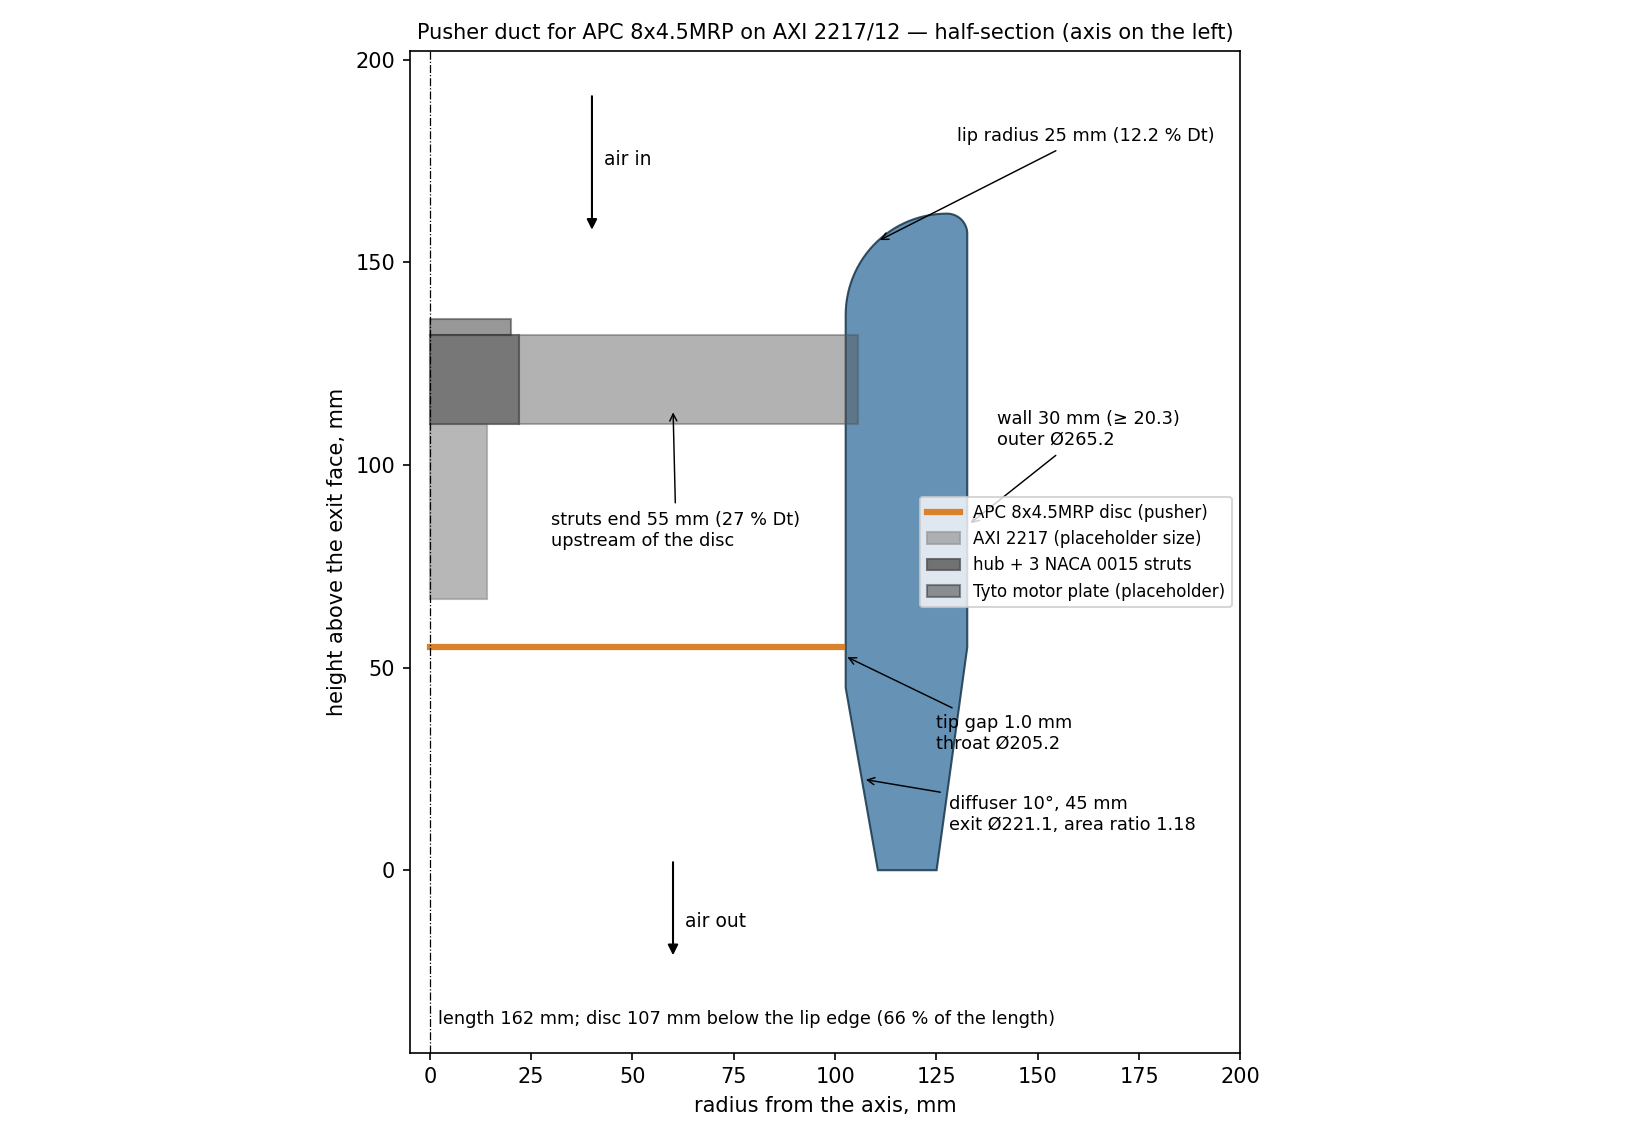
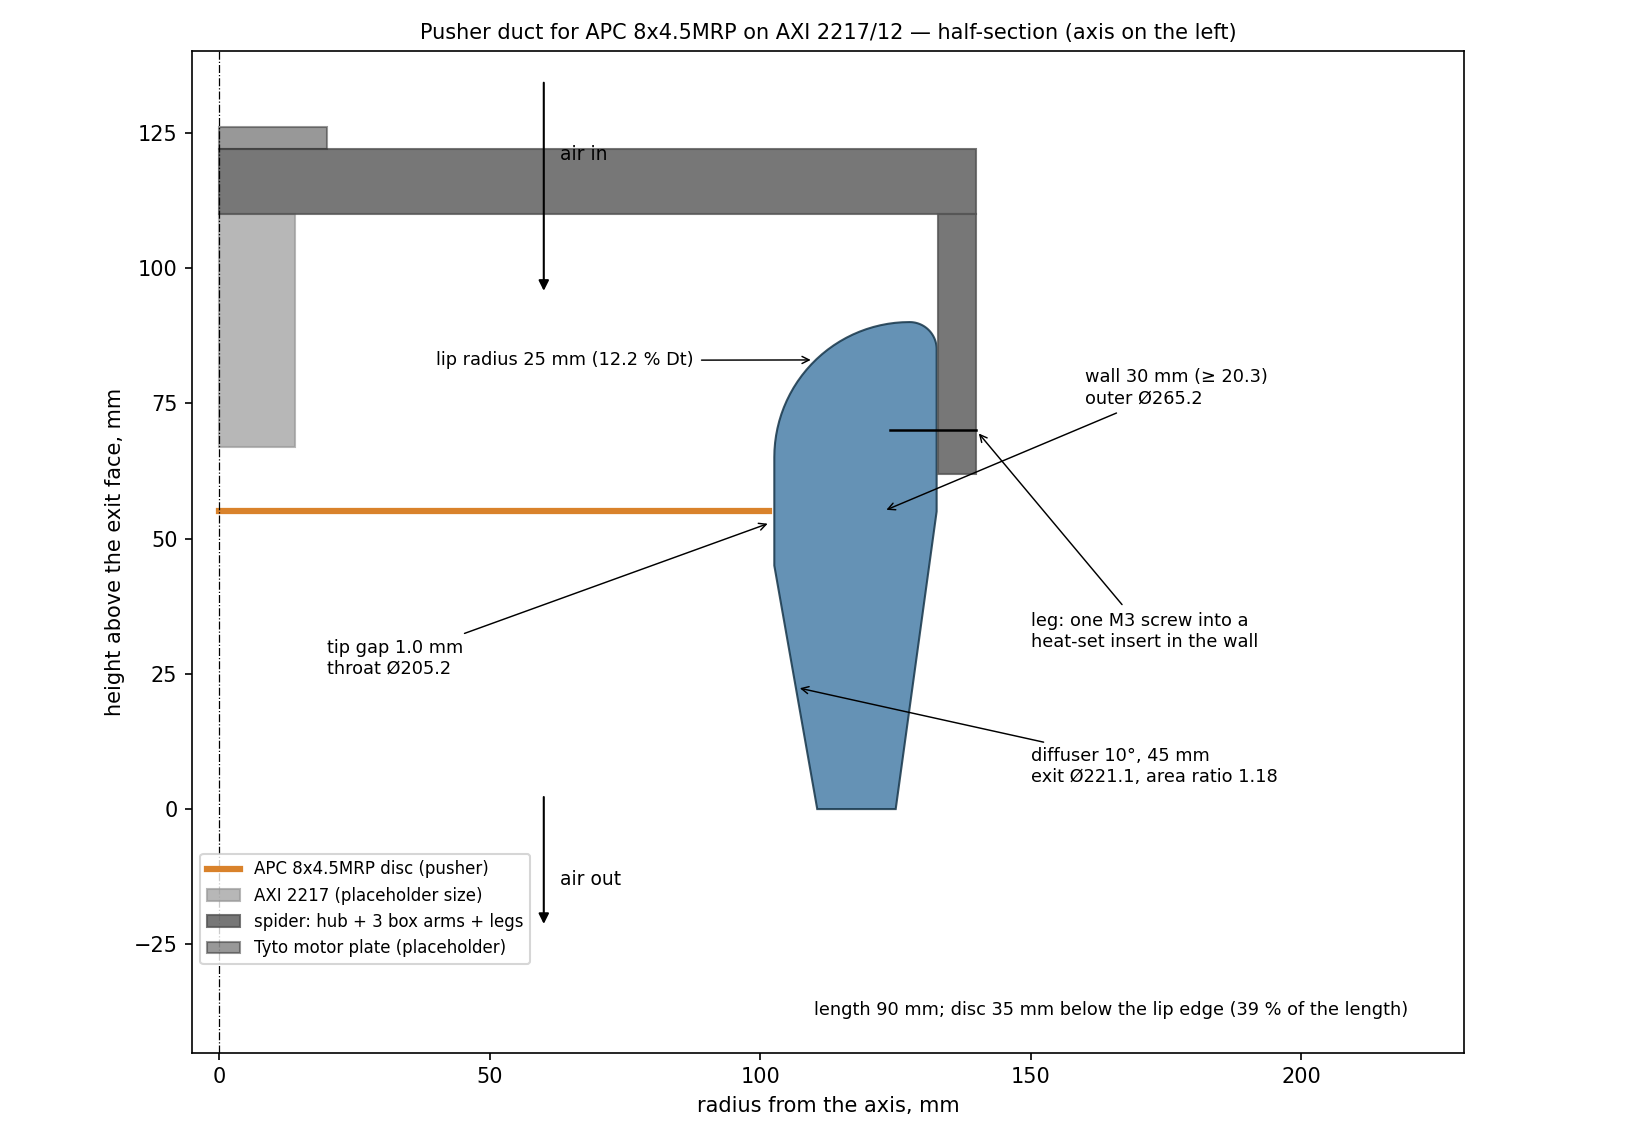
Duct: back to the first shape, motor moved upstream, plain box spider over the inlet
Adam preferred the first duct (90 mm, disc 35 mm below the lip) with only
the motor placement swapped. The spider now sits 20 mm above the lip and
its legs screw into the outer wall, so the inside stays smooth and the
outlet is clear; the struts no longer need an aerofoil section.

diff --git a/hardware/duct-8in-axi2217/viewer.html b/hardware/duct-8in-axi2217/viewer.html
@@ -23,22 +23,21 @@
   <div class="dim" id="dims"></div>
   <label><input type="checkbox" id="cut" checked> cut away a quarter</label>
   <label><input type="checkbox" id="prop" checked> propeller disc</label>
-  <label><input type="checkbox" id="spider" checked> hub, struts, motor, stand plate (motor and plate: placeholder size)</label>
-  <div class="hint">Drag to rotate · scroll to zoom · right-drag to pan. Air enters at the top, past the stand, hub and struts, then the propeller.<br>Same parameters as duct.scad; motor sizes are not yet measured.</div>
+  <label><input type="checkbox" id="spider" checked> spider, motor, stand plate (motor and plate: placeholder size)</label>
+  <div class="hint">Drag to rotate · scroll to zoom · right-drag to pan. Air enters at the top, past the stand plate, spider and motor, then the propeller.<br>Same parameters as duct.scad; motor sizes are not yet measured.</div>
 </div>
 <script src="https://cdnjs.cloudflare.com/ajax/libs/three.js/r128/three.min.js"></script>
 <script src="https://cdn.jsdelivr.net/npm/three@0.128.0/examples/js/controls/OrbitControls.js"></script>
 <script>
-const P = { prop_d: 203.2, tip_gap: 1.0, blade_below: 10, lip_r: 25, lip_out_r: 5, wall: 30, prop_to_mount: 55,
-            diff_angle: 10, diff_len: 45, hub_r: 22, struts_n: 3, strut_chord: 22, strut_tc: 0.15, root_w: 8, pocket: 3,
-            strut_angle0: 45 };
+const P = { prop_d: 203.2, tip_gap: 1.0, throat_len: 20, lip_r: 25, lip_out_r: 5, wall: 30, prop_to_mount: 55,
+            diff_angle: 10, diff_len: 45, hub_r: 22, arms_n: 3, arm_w: 8, arm_t: 12, leg_t: 7, leg_bolt_z: 70, arm_angle0: 45 };
 const rad = d => d * Math.PI / 180;
 const throat_r = P.prop_d / 2 + P.tip_gap;
 const diff_len = P.diff_len;
 const exit_r = throat_r + diff_len * Math.tan(rad(P.diff_angle));
-const outer_exit_r = exit_r + 14.5;
-const z_prop = diff_len + P.blade_below, z_hub0 = z_prop + P.prop_to_mount, z_strut = z_hub0 + P.strut_chord / 2;
-const z_lip0 = z_strut + P.strut_chord / 2 + 5, z_top = z_lip0 + P.lip_r;
+const outer_exit_r = exit_r + 14.5, outer_r = throat_r + P.wall;
+const z_prop = diff_len + P.throat_len / 2, z_lip0 = diff_len + P.throat_len, z_top = z_lip0 + P.lip_r;
+const z_mount = z_prop + P.prop_to_mount, leg_r0 = outer_r + 0.3;
 const hl = throat_r + P.lip_r;
 const arc = (cx, cz, r, a0, a1, n = 30) => Array.from({ length: n + 1 }, (_, i) => {
   const a = rad(a0 + (a1 - a0) * i / n); return [cx + r * Math.cos(a), cz + r * Math.sin(a)]; });
@@ -52,7 +51,7 @@ document.getElementById("dims").textContent =
   `disc below lip ${(z_top - z_prop).toFixed(0)} mm    (${(100 * (z_top - z_prop) / z_top).toFixed(0)} % of length)\n` +
   `diffuser       ${P.diff_angle}°, ${diff_len} mm, exit Ø${(2 * exit_r).toFixed(1)}\n` +
   `exit/disc area ${((exit_r / (P.prop_d / 2)) ** 2).toFixed(2)}\n` +
-  `struts end     ${(z_strut - P.strut_chord / 2 - z_prop).toFixed(0)} mm upstream of the disc\n` +
+  `motor face     ${(z_mount - z_top).toFixed(0)} mm above the lip\n` +
   `length         ${z_top} mm`;
 
 const canvas = document.getElementById("c");
@@ -97,32 +96,27 @@ const grey = new THREE.MeshStandardMaterial({ color: 0x555555, roughness: 0.7, s
 const motorLen = P.prop_to_mount - 12;
 const motor = new THREE.Mesh(new THREE.CylinderGeometry(14, 14, motorLen, 48), new THREE.MeshStandardMaterial({ color: 0x9aa0a4 }));
 motor.position.y = z_prop + 12 + motorLen / 2; mount.add(motor);
-const hub = new THREE.Mesh(new THREE.CylinderGeometry(P.hub_r, P.hub_r, P.strut_chord, 48), grey);
-hub.position.y = z_hub0 + P.strut_chord / 2; mount.add(hub);
+const hub = new THREE.Mesh(new THREE.CylinderGeometry(P.hub_r, P.hub_r, P.arm_t, 48), grey);
+hub.position.y = z_mount + P.arm_t / 2; mount.add(hub);
 const plate = new THREE.Mesh(new THREE.BoxGeometry(40, 4, 40), new THREE.MeshStandardMaterial({ color: 0x333333, transparent: true, opacity: 0.7 }));
-plate.position.y = z_hub0 + P.strut_chord + 2; mount.add(plate);
-function nacaShape(c, t, n = 30) {
-  const up = Array.from({ length: n + 1 }, (_, i) => { const x = (1 - Math.cos(Math.PI * i / n)) / 2;
-    return [x * c, 5 * t * c * (0.2969 * Math.sqrt(x) - 0.1260 * x - 0.3516 * x * x + 0.2843 * x ** 3 - 0.1036 * x ** 4)]; });
-  const pts = [...up, ...up.slice(1, -1).reverse().map(([x, y]) => [x, -y])];
-  return new THREE.Shape(pts.map(([x, y]) => new THREE.Vector2(x, y)));
-}
-const strutLen = throat_r + P.pocket - 0.3 - (P.hub_r - 3);
-const strutGeo = new THREE.ExtrudeGeometry(nacaShape(P.strut_chord, P.strut_tc), { depth: strutLen, bevelEnabled: false });
-for (let i = 0; i < P.struts_n; i++) {
-  const a = rad(P.strut_angle0 + i * 360 / P.struts_n);
+plate.position.y = z_mount + P.arm_t + 2; mount.add(plate);
+const legLen = z_mount + P.arm_t - (P.leg_bolt_z - 8);
+for (let i = 0; i < P.arms_n; i++) {
+  const a = rad(P.arm_angle0 + i * 360 / P.arms_n);
   const g = new THREE.Group();
-  const m = new THREE.Mesh(strutGeo, grey);
-  m.rotation.z = -Math.PI / 2;          // chord runs downward from the leading edge at the top
-  m.position.z = P.hub_r - 3;           // start inside the hub, extrude radially outward
-  g.add(m);
-  g.rotation.y = a + Math.PI / 2;
-  g.position.y = z_strut + P.strut_chord / 2;
+  const armLen = leg_r0 + P.leg_t;
+  const arm = new THREE.Mesh(new THREE.BoxGeometry(armLen, P.arm_t, P.arm_w), grey);
+  arm.position.set(armLen / 2, z_mount + P.arm_t / 2, 0); g.add(arm);
+  const leg = new THREE.Mesh(new THREE.BoxGeometry(P.leg_t, legLen, P.arm_w), grey);
+  leg.position.set(leg_r0 + P.leg_t / 2, P.leg_bolt_z - 8 + legLen / 2, 0); g.add(leg);
+  const screw = new THREE.Mesh(new THREE.CylinderGeometry(1.6, 1.6, P.leg_t + 10, 16), new THREE.MeshStandardMaterial({ color: 0xc0a040 }));
+  screw.rotation.z = Math.PI / 2; screw.position.set(leg_r0 + P.leg_t / 2 - 5, P.leg_bolt_z, 0); g.add(screw);
+  g.rotation.y = a;
   mount.add(g);
 }
 scene.add(mount);
 
-scene.add(new THREE.ArrowHelper(new THREE.Vector3(0, -1, 0), new THREE.Vector3(0, z_top + 90, 0), 60, 0x333333, 14, 8));
+scene.add(new THREE.ArrowHelper(new THREE.Vector3(0, -1, 0), new THREE.Vector3(70, z_mount + 70, 0), 60, 0x333333, 14, 8));
 scene.add(new THREE.ArrowHelper(new THREE.Vector3(0, -1, 0), new THREE.Vector3(0, -10, 0), 60, 0x333333, 14, 8));
 
 document.getElementById("cut").onchange = e => buildDuct(e.target.checked);

diff --git a/hardware/duct-8in-axi2217/render.py b/hardware/duct-8in-axi2217/render.py
@@ -1,4 +1,4 @@
-"""Previews for the pusher duct: a dimensioned half-section and a 3D view of the exported STLs.
+"""Previews for the pusher duct (motor upstream, spider over the inlet): a dimensioned half-section and a 3D view of the exported STLs.
 
 OpenSCAD's PNG export needs a display; this draws from the same numbers instead.
 Keep the parameters below in step with duct.scad.
@@ -14,19 +14,19 @@ import matplotlib.pyplot as plt
 import numpy as np
 from mpl_toolkits.mplot3d.art3d import Poly3DCollection
 
-prop_d, tip_gap, blade_below = 203.2, 1.0, 10
+prop_d, tip_gap, throat_len = 203.2, 1.0, 20
 lip_r, lip_out_r, wall = 25, 5, 30
 prop_to_mount, diff_angle, diff_len = 55, 10, 45
-hub_r, strut_chord, pocket = 22, 22, 3
+hub_r, arm_t, leg_t, leg_bolt_z = 22, 12, 7, 70
 throat_r = prop_d / 2 + tip_gap
 exit_r = throat_r + diff_len * math.tan(math.radians(diff_angle))
 outer_exit_r = exit_r + 14.5
 outer_r = throat_r + wall
-z_prop = diff_len + blade_below
-z_hub0 = z_prop + prop_to_mount
-z_strut = z_hub0 + strut_chord / 2
-z_lip0 = z_strut + strut_chord / 2 + 5
+z_prop = diff_len + throat_len / 2
+z_lip0 = diff_len + throat_len
 z_top = z_lip0 + lip_r
+z_mount = z_prop + prop_to_mount
+leg_r0 = outer_r + 0.3
 hl = throat_r + lip_r
 
 
@@ -44,32 +44,32 @@ def section(path):
     ax.fill(r, z, color="#4a7fa8", alpha=.85, lw=1, ec="#17364a")
     ax.plot([0, prop_d / 2], [z_prop, z_prop], color="#d9822b", lw=3, label="APC 8x4.5MRP disc (pusher)")
     ax.add_patch(plt.Rectangle((0, z_prop + 12), 14, prop_to_mount - 12, color="#999", alpha=.7, label="AXI 2217 (placeholder size)"))
-    ax.add_patch(plt.Rectangle((0, z_hub0), hub_r, strut_chord, color="#555", alpha=.8, label="hub + 3 NACA 0015 struts"))
-    ax.add_patch(plt.Rectangle((hub_r, z_strut - strut_chord / 2), throat_r + pocket - hub_r, strut_chord, color="#555", alpha=.45))
-    ax.add_patch(plt.Rectangle((0, z_hub0 + strut_chord), 20, 4, color="#333", alpha=.5, label="Tyto motor plate (placeholder)"))
-    ax.annotate("", xy=(40, z_top - 5), xytext=(40, z_top + 30), arrowprops=dict(arrowstyle="-|>", color="k"))
-    ax.text(43, z_top + 12, "air in", fontsize=9)
+    ax.add_patch(plt.Rectangle((0, z_mount), leg_r0 + leg_t, arm_t, color="#555", alpha=.8, label="spider: hub + 3 box arms + legs"))
+    ax.add_patch(plt.Rectangle((leg_r0, leg_bolt_z - 8), leg_t, z_mount - (leg_bolt_z - 8), color="#555", alpha=.8))
+    ax.plot([leg_r0 - 9, leg_r0 + leg_t], [leg_bolt_z, leg_bolt_z], color="k", lw=1.2)
+    ax.add_patch(plt.Rectangle((0, z_mount + arm_t), 20, 4, color="#333", alpha=.5, label="Tyto motor plate (placeholder)"))
+    ax.annotate("", xy=(60, z_top + 5), xytext=(60, z_top + 45), arrowprops=dict(arrowstyle="-|>", color="k"))
+    ax.text(63, z_top + 30, "air in", fontsize=9)
     ax.annotate("", xy=(60, -22), xytext=(60, 3), arrowprops=dict(arrowstyle="-|>", color="k"))
     ax.text(63, -14, "air out", fontsize=9)
     ax.axvline(0, color="k", lw=.6, ls="-.")
-    gap = z_strut - strut_chord / 2 - z_prop
     notes = [
-        ((throat_r - 0.5, z_prop - 2), f"tip gap {tip_gap:.1f} mm\nthroat Ø{2 * throat_r:.1f}", (125, z_prop - 25)),
-        ((hl - lip_r * .7, z_lip0 + lip_r * .72), f"lip radius {lip_r} mm ({100 * lip_r / (2 * throat_r):.1f} % Dt)", (130, z_top + 18)),
-        ((outer_r, z_prop + 30), f"wall {wall} mm (≥ 20.3)\nouter Ø{2 * outer_r:.1f}", (140, z_prop + 50)),
-        (((exit_r + throat_r) / 2, diff_len / 2), f"diffuser {diff_angle}°, {diff_len} mm\nexit Ø{2 * exit_r:.1f}, area ratio {(exit_r / (prop_d / 2)) ** 2:.2f}", (128, 10)),
-        ((60, z_hub0 + 4), f"struts end {gap:.0f} mm ({100 * gap / (2 * throat_r):.0f} % Dt)\nupstream of the disc", (30, z_hub0 - 30)),
+        ((throat_r - 0.5, z_prop - 2), f"tip gap {tip_gap:.1f} mm\nthroat Ø{2 * throat_r:.1f}", (20, z_prop - 30)),
+        ((hl - lip_r * .7, z_lip0 + lip_r * .72), f"lip radius {lip_r} mm ({100 * lip_r / (2 * throat_r):.1f} % Dt)", (40, z_top - 8)),
+        ((outer_r - 10, z_prop), f"wall {wall} mm (≥ 20.3)\nouter Ø{2 * outer_r:.1f}", (160, z_prop + 20)),
+        (((exit_r + throat_r) / 2, diff_len / 2), f"diffuser {diff_angle}°, {diff_len} mm\nexit Ø{2 * exit_r:.1f}, area ratio {(exit_r / (prop_d / 2)) ** 2:.2f}", (150, 5)),
+        ((leg_r0 + leg_t, leg_bolt_z), "leg: one M3 screw into a\nheat-set insert in the wall", (150, leg_bolt_z - 40)),
     ]
     for xy, txt, xt in notes:
         ax.annotate(txt, xy=xy, xytext=xt, fontsize=8.5, arrowprops=dict(arrowstyle="->", lw=.7))
-    ax.text(2, -38, f"length {z_top:.0f} mm; disc {z_top - z_prop:.0f} mm below the lip edge ({100 * (z_top - z_prop) / z_top:.0f} % of the length)", fontsize=8.5)
+    ax.text(110, -38, f"length {z_top:.0f} mm; disc {z_top - z_prop:.0f} mm below the lip edge ({100 * (z_top - z_prop) / z_top:.0f} % of the length)", fontsize=8.5)
     ax.set_aspect("equal")
-    ax.set_xlim(-5, 200)
-    ax.set_ylim(-45, z_top + 40)
+    ax.set_xlim(-5, 230)
+    ax.set_ylim(-45, z_mount + 30)
     ax.set_xlabel("radius from the axis, mm")
     ax.set_ylabel("height above the exit face, mm")
     ax.set_title("Pusher duct for APC 8x4.5MRP on AXI 2217/12 — half-section (axis on the left)", fontsize=10)
-    ax.legend(loc="center right", fontsize=8)
+    ax.legend(loc="lower left", bbox_to_anchor=(0.0, 0.08), fontsize=8)
     fig.tight_layout()
     fig.savefig(path, dpi=150)
 
@@ -88,9 +88,11 @@ def view3d(path, parts):
     fig = plt.figure(figsize=(9, 8.5))
     ax = fig.add_subplot(projection="3d")
     light = np.array([0.4, -0.5, 0.75]); light /= np.linalg.norm(light)
-    for f, col, cut, dz in parts:
+    for f, col, cut, flip_at in parts:
         t = read_stl(f)
-        t[:, :, 2] += dz
+        if flip_at is not None:                           # spider.stl is exported upside down for printing
+            t[:, :, 2] = flip_at - t[:, :, 2]
+            t[:, :, 1] = -t[:, :, 1]
         if cut:
             t = t[(t[:, :, 1] >= -1).all(axis=1)]         # cut away the half nearest the camera to show the inside
         nrm = np.cross(t[:, 1] - t[:, 0], t[:, 2] - t[:, 0])
@@ -98,16 +100,16 @@ def view3d(path, parts):
         shade = 0.35 + 0.65 * np.clip(nrm @ light, 0, 1)
         base = np.array(matplotlib.colors.to_rgb(col))
         ax.add_collection3d(Poly3DCollection(t, facecolors=np.clip(base[None] * shade[:, None], 0, 1), edgecolors="none"))
-    ax.set_xlim(-140, 140); ax.set_ylim(-140, 140); ax.set_zlim(-10, 180)
-    ax.set_box_aspect((280, 280, 190))
+    ax.set_xlim(-140, 140); ax.set_ylim(-140, 140); ax.set_zlim(-10, 140)
+    ax.set_box_aspect((280, 280, 150))
     ax.view_init(elev=24, azim=-60)
     ax.set_axis_off()
-    ax.set_title("Pusher duct (half cut away) with hub and struts; air enters at the top", fontsize=10)
+    ax.set_title("Pusher duct (half cut away) with the motor spider; air enters at the top", fontsize=10)
     fig.tight_layout()
     fig.savefig(path, dpi=130)
 
 
 if __name__ == "__main__":
     section("section.png")
-    view3d("assembly.png", [("duct_full.stl", "#4a7fa8", True, 0), ("spider.stl", "#555555", False, z_hub0)])
+    view3d("assembly.png", [("duct_full.stl", "#4a7fa8", True, None), ("spider.stl", "#555555", False, z_mount + arm_t)])
     print("wrote section.png, assembly.png", file=sys.stderr)

diff --git a/hardware/duct-8in-axi2217/README.md b/hardware/duct-8in-axi2217/README.md
@@ -6,12 +6,14 @@ The present r27 duct, unlined, gives −8.01 N at 2000 µs against −10.57 N fo
 propeller (2026-11-02), so it costs thrust. This one is meant to add it. **Untested: nothing
 here has been printed or run yet.**
 
-**Pusher layout (2026-11-02, Adam's choice):** air enters through the lip, passes the Tyto motor
-plate, the hub and three aerofoil struts and the motor, then the propeller, and leaves through the
-diffuser. The motor hangs from the hub, shaft down to the propeller. It needs a pusher propeller
-(APC 8x4.5MRP) or the motor reversed with the propeller flipped, and the stand will read thrust
-with the opposite sign to a tractor set-up. The stand and its motor plate now sit in the inflow,
-upstream of the lip.
+**Pusher layout (2026-11-02, Adam's choice):** the first duct's shape, with the motor moved to
+the inlet side. Air enters through the lip past the Tyto motor plate, the spider and the motor,
+goes through the propeller and leaves through the diffuser. The spider sits 20 mm above the lip:
+a hub on the motor's rear face and three plain box arms that reach past the lip and drop as legs
+down the outside of the duct, each held by one radial M3 screw into a heat-set insert in the
+outer wall. Nothing crosses the outlet and the inside of the duct stays smooth. It needs a pusher
+propeller (APC 8x4.5MRP) or the motor reversed with the propeller flipped, and the stand will
+read thrust with the opposite sign to a tractor set-up.
 
 ![half-section](section.png)
 
@@ -20,15 +22,10 @@ upstream of the lip.
 | tip gap | 1.0 mm (throat Ø205.2) | 1: as small as can be built |
 | inlet lip radius | 25 mm = 12.2 % D<sub>t</sub> | 2: 10–13 % D<sub>t</sub>, never under ~6 % |
 | wall at the propeller plane | 30 mm (outer Ø265.2) | 3: ≥ 10 % of D = 20.3 mm |
-| propeller disc | 107 mm below the lip edge, 66 % of the length | 4: well behind the lip; rearward is better static |
+| propeller disc | 35 mm below the lip edge, 39 % of the length | 4: behind the lip (NASA: 45 %) |
 | diffuser | 10°, 45 mm, exit Ø221.1, exit/disc area 1.18 | 5: 10°, area ratio 1.1–1.3 |
-| struts | 3 × NACA 0015, 22 mm chord, trailing edges 55 mm (27 % D<sub>t</sub>) upstream of the disc | 6: well clear of the rotor; odd count so the two blades never pass two struts at once |
-| length | 162 mm | |
-
-Upstream struts put their wakes into the propeller, which is why they sit as far forward of it
-as the motor allows and have an aerofoil section. That reasoning is mine, not from the
-extracts; the 5.5 % D<sub>t</sub> spacing rule in the PDF is the only sourced number for strut
-placement.
+| spider | hub + 3 box arms (8 × 12 mm) 20 mm above the lip, legs down the outer wall | 6: supports out of the rotor plane (55 mm upstream of the disc) |
+| length | 90 mm | |
 
 ## Files
 
@@ -42,15 +39,15 @@ openscad -D 'part="spider"'  -o spider.stl       duct.scad
 ```
 
 - `duct.scad` — the model; every number above is a parameter at the top. Changing
-  `prop_to_mount` moves the hub and struts and lengthens or shortens the throat to suit.
-- `duct_quarter.stl` — print **4×** (133 × 133 × 162 mm, exit face on the bed); 6 pin holes
-  Ø3.2 per cut face for 3 mm pins or filament offcuts, then glue. Each strut root sits in a 3 mm
-  pocket in the throat wall and is held by one M3 screw from outside (counterbored) into a
-  heat-set insert in the strut root.
+  `prop_to_mount` moves the spider; the model refuses (assert) if the motor face would end up
+  inside the lip.
+- `duct_quarter.stl` — print **4×** (133 × 133 × 90 mm, exit face on the bed); 4 pin holes
+  Ø3.2 per cut face for 3 mm pins or filament offcuts, then glue. Three of the quarters' outer
+  walls carry an M3 heat-set insert for a spider leg.
 - `duct_full.stl` — the whole ring, for a bed of at least 270 mm.
-- `spider.stl` — hub + 3 aerofoil struts (180 × 180 × 22 mm), prints flat on the motor-side face.
-  The motor bolts to its downstream face and the Tyto motor plate to its upstream face, on the
-  same long M3 bolts (stand plate → hub → motor).
+- `spider.stl` — hub + 3 arms + legs (238 × 238 × 60 mm), exported arms-down so it prints with
+  no supports; needs a bed of at least 240 mm. The motor bolts to its downstream face and the
+  Tyto motor plate to its upstream face, on the same long M3 bolts (stand plate → spider → motor).
 - `viewer.html` — interactive 3D view in the browser (three.js from the CDN; built from the same
   numbers as `duct.scad`, so keep the two in step). Open it with `/snap/bin/brave viewer.html`.
 - `render.py` — redraws `section.png` and `assembly.png` (OpenSCAD's own PNG export needs a display).
@@ -62,7 +59,7 @@ The motor dimensions in `duct.scad` are **placeholders, not verified data** (mar
 - `prop_to_mount` (55 mm) — propeller disc to the motor's rear mounting face, with the prop adapter fitted;
 - `mount_holes_n`, `mount_holes_pcd` (4 on Ø25) — the AXI 2217 rear-mount hole pattern, which the Tyto plate must share;
 - `hub_hole_d` (12 mm) — clearance for whatever protrudes from the motor's rear;
-- `blade_below` (10 mm) — straight throat below the disc; must cover the blade tips' axial extent.
+- `throat_len` (20 mm) — straight throat around the disc; must cover the blade tips' axial extent.
 
 Measure the real tip gap after assembly with a feeler gauge. A ring printed in four pieces will
 not be round to 0.1 mm, so sand the throat until the tightest blade clears everywhere.
